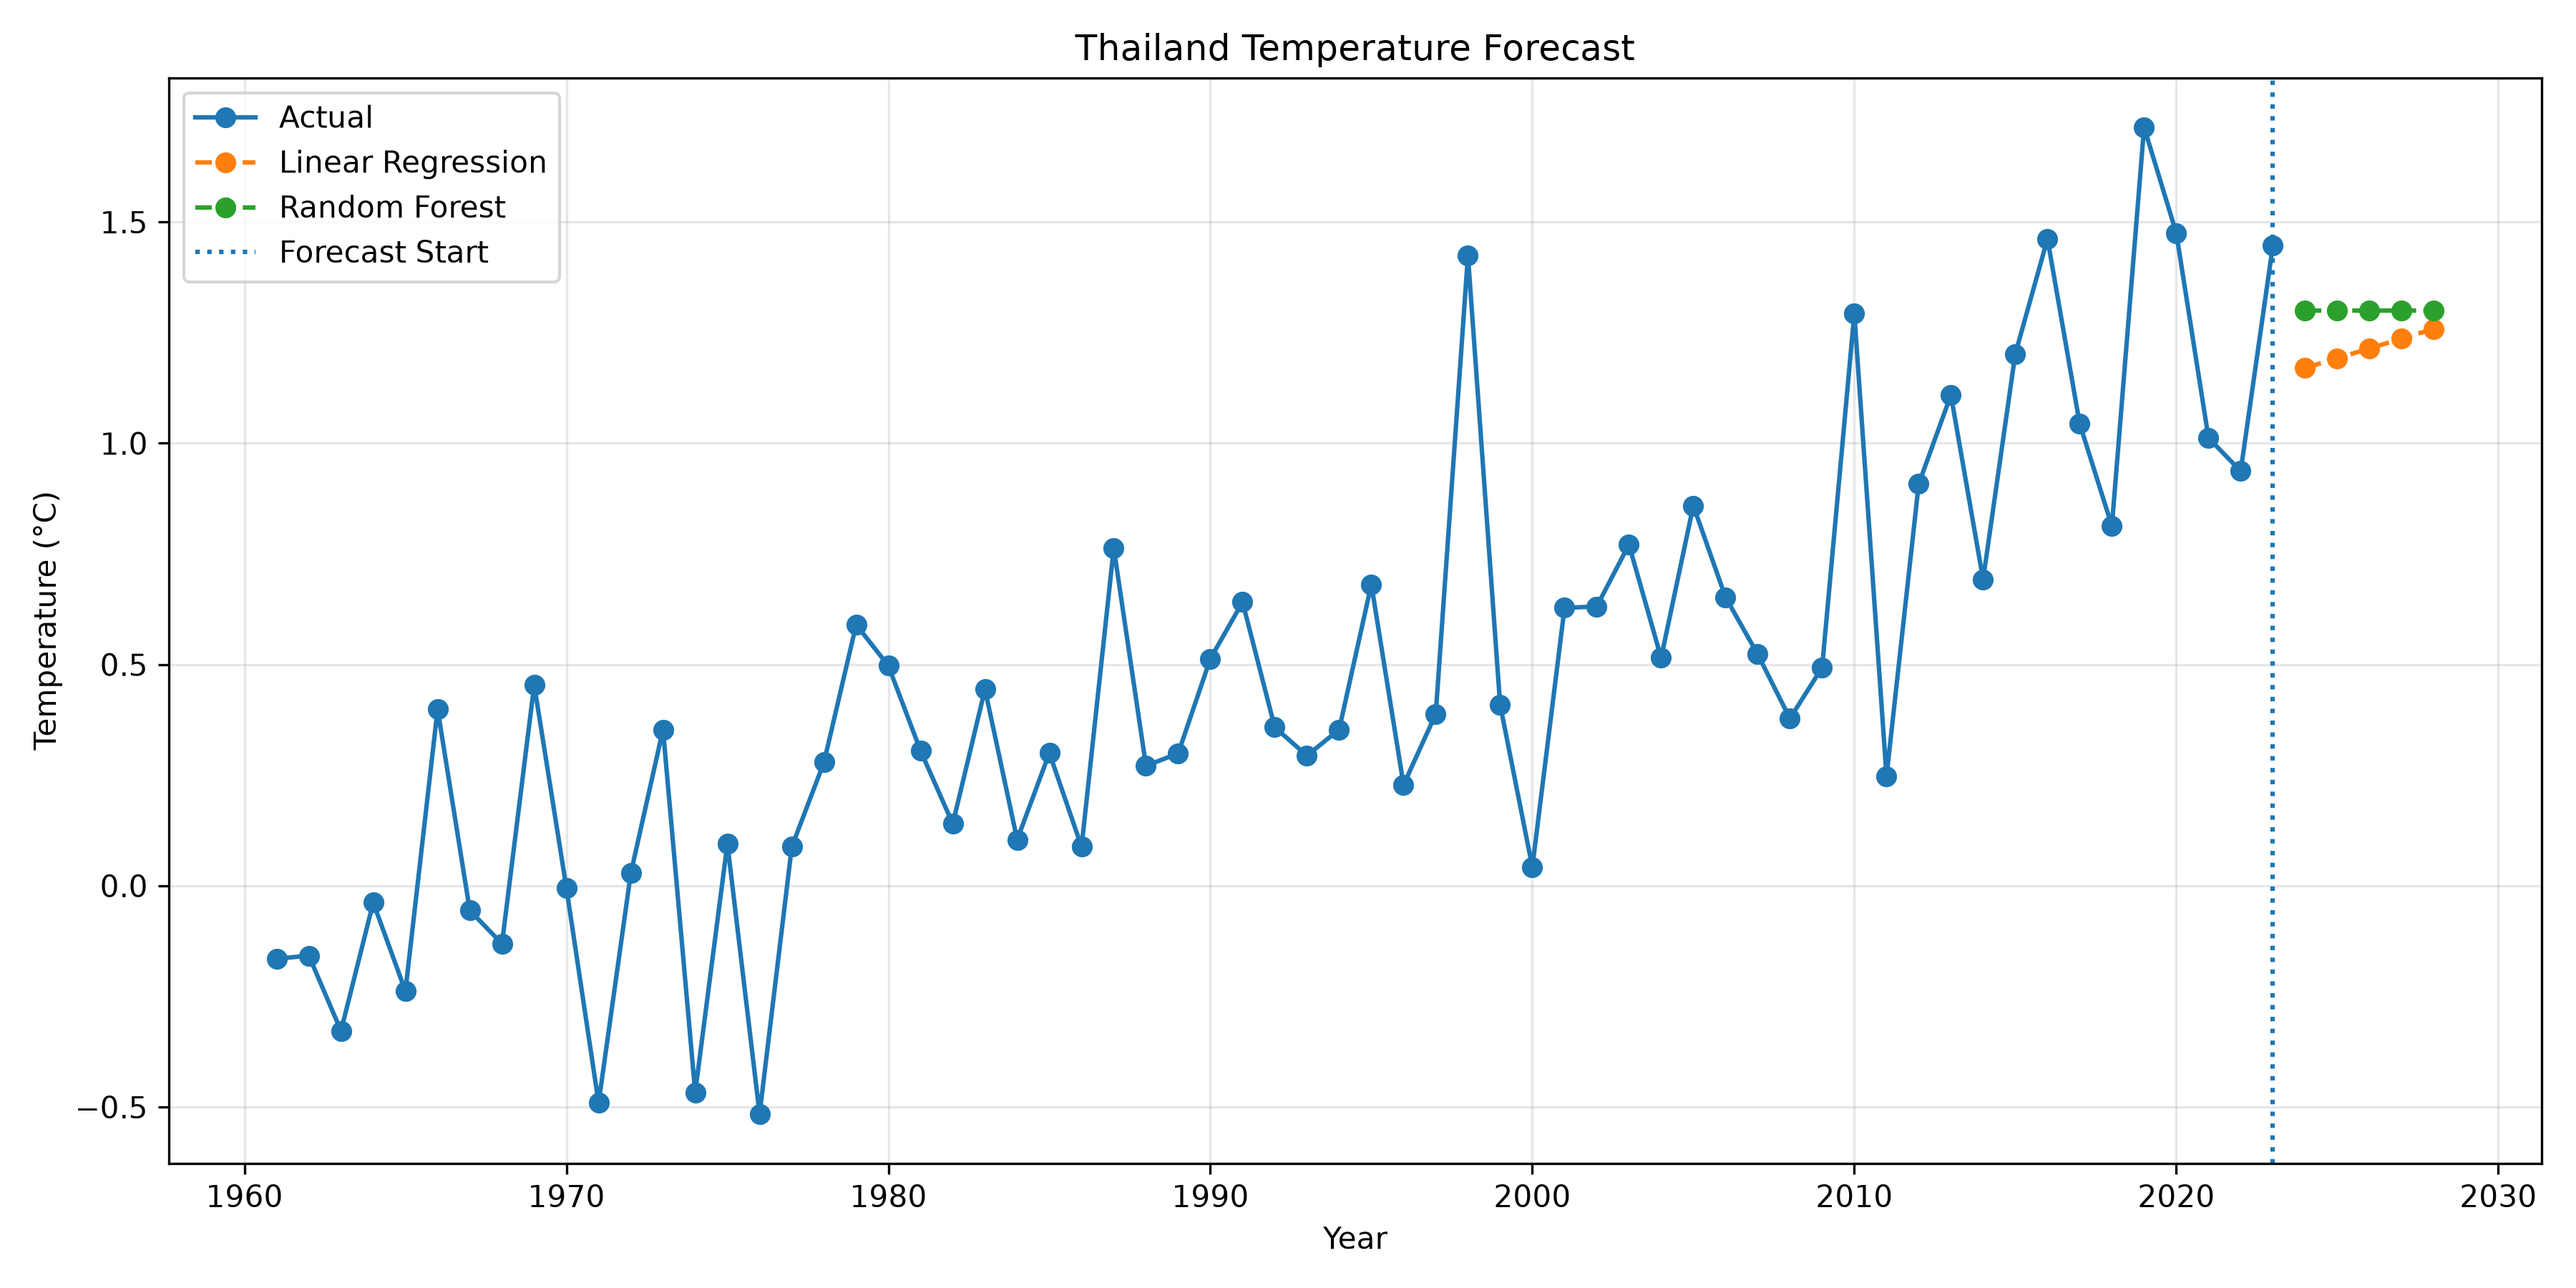
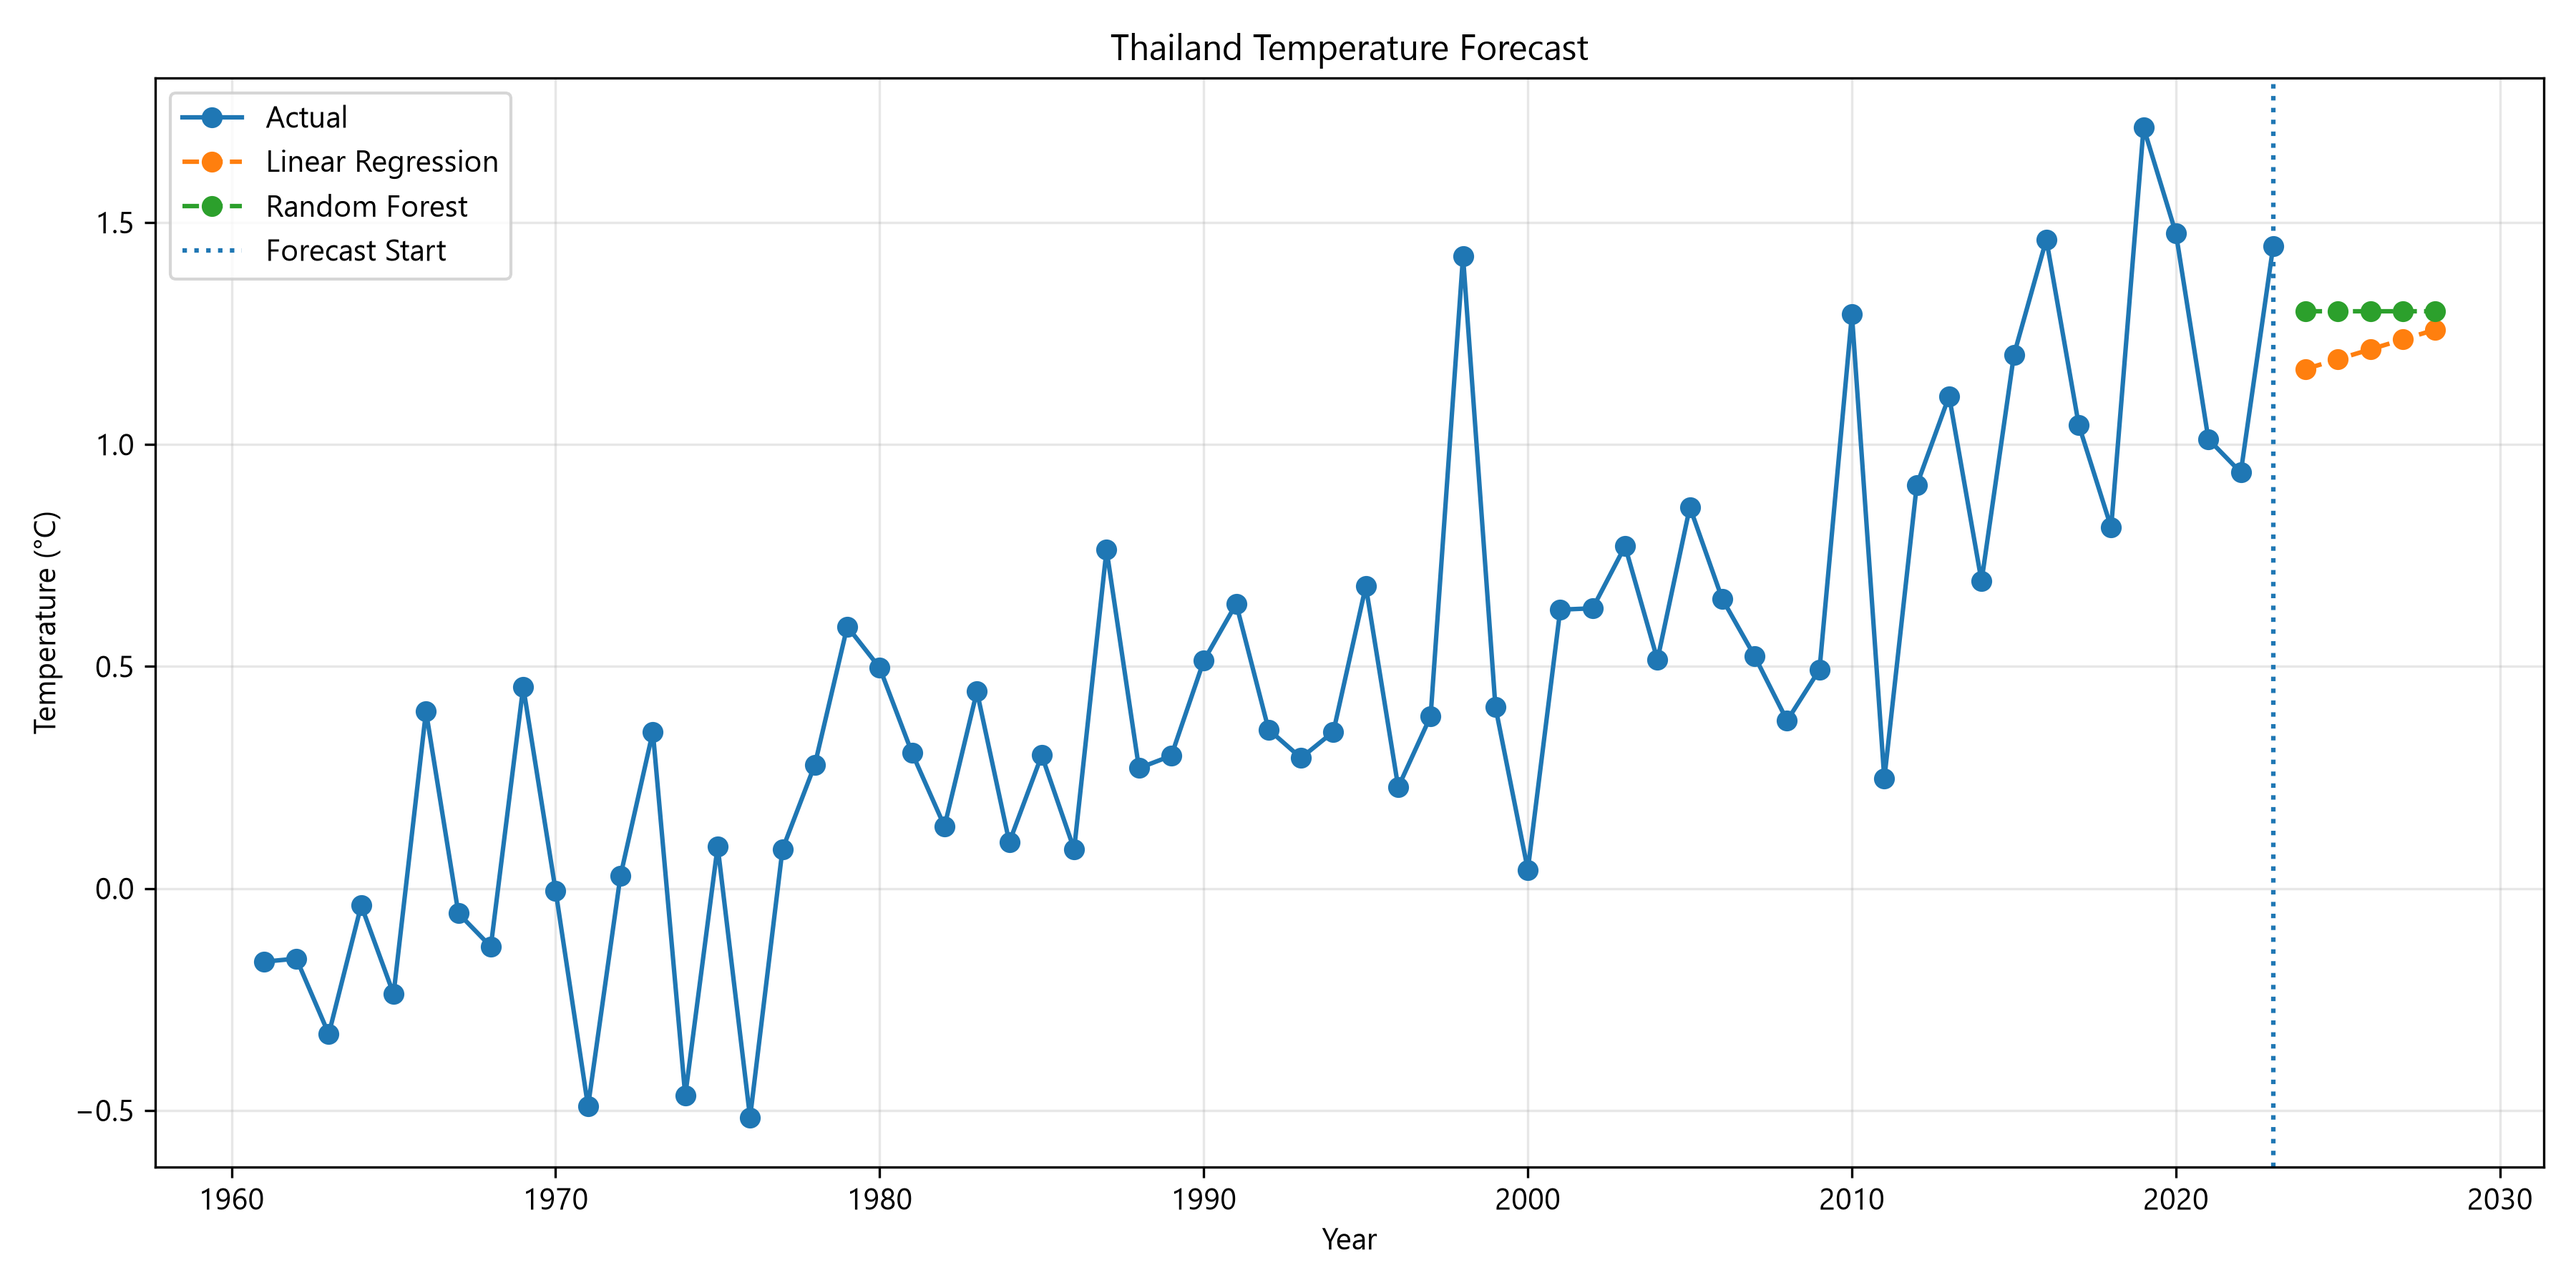
add_..

diff --git a/README.md b/README.md
@@ -1,0 +1,220 @@
+# Thailand Temperature Change Forecasting
+
+> A student Data Mining / Machine Learning project for preparing Thailand temperature-change data and generating a five-year forecast.
+
+[![Python](https://img.shields.io/badge/Python-3.x-3776AB?logo=python&logoColor=white)](https://www.python.org/)
+[![Pandas](https://img.shields.io/badge/Pandas-data%20processing-150458?logo=pandas&logoColor=white)](https://pandas.pydata.org/)
+[![scikit--learn](https://img.shields.io/badge/scikit--learn-modeling-F7931E?logo=scikit-learn&logoColor=white)](https://scikit-learn.org/)
+
+## Table of Contents
+
+- [Project Overview](#project-overview)
+- [Objectives](#objectives)
+- [Repository Structure](#repository-structure)
+- [Data](#data)
+- [Workflow](#workflow)
+- [Models](#models)
+- [Available Outputs](#available-outputs)
+- [Visualizations](#visualizations)
+- [How to Run](#how-to-run)
+- [Reproducibility Notes](#reproducibility-notes)
+- [Academic Notes](#academic-notes)
+
+## Project Overview
+
+This repository contains a workflow for working with annual **temperature change in Thailand**:
+
+1. Load a FAOSTAT temperature-change dataset.
+2. Filter the records for Thailand, annual meteorological data, and the `Temperature change` element.
+3. Clean numeric fields, remove incomplete records, remove duplicates, check missing years, and interpolate missing years when needed.
+4. Train forecasting models using year as the input feature.
+5. Compare the available model outputs and forecast the next five years.
+
+The main workflow is implemented in `clean.py` and `train_data.ipynb`.
+
+## Objectives
+
+- Prepare a reproducible dataset from the available FAOSTAT source files.
+- Explore a time-based temperature-change series for Thailand.
+- Compare Linear Regression and Random Forest regression workflows.
+- Produce tabular forecast output and a visualization for further discussion.
+
+## Repository Structure
+
+```text
+.
+├── clean.py
+├── clean_dataset.ipynb
+├── train_data.ipynb
+├── dataset/
+│   ├── Environment_Temperature_change_E_All_Data_NOFLAG.csv
+│   ├── FAOSTAT_data_1-10-2022.csv
+│   ├── FAOSTAT_data_11-24-2020.csv
+│   └── FAOSTAT_data_en_11-1-2024.csv
+├── Thailand_Temperature_Clean.csv
+├── Thailand_Model_Comparison.csv
+├── Thailand_Temperature_Forecast_2024_2028.csv
+├── Thailand_Temperature_Forecast.png
+├── Thailand_AI_Training_Results.png
+└── None_use/
+    ├── dataset/
+    ├── pj1/
+    └── pj2/
+```
+
+`None_use/` contains separate RFID and book-category classification experiments, including their own datasets, notebooks, scripts, and images. Those files are retained in the repository but are not part of the main Thailand temperature forecasting workflow documented above.
+
+## Data
+
+### Source files
+
+The main cleaning script reads:
+
+```text
+dataset/FAOSTAT_data_en_11-1-2024.csv
+```
+
+Other source CSV files are also present in `dataset/`, but the current `clean.py` input path points to the file above.
+
+### Cleaned dataset
+
+`Thailand_Temperature_Clean.csv` contains the columns:
+
+| Column | Description based on the file and cleaning code |
+|---|---|
+| `Year` | Observation year |
+| `Value` | Temperature change value in the source unit, represented as degrees Celsius in the project output |
+
+The checked file contains **63 rows**, covering **1961-2023**. The cleaning script creates this two-column format after filtering and validation.
+
+## Workflow
+
+### 1. Cleaning
+
+`clean.py` performs the following operations:
+
+- Reads the FAOSTAT file with `latin1` encoding.
+- Cleans column names by removing a possible BOM and surrounding whitespace.
+- Selects `Thailand` records.
+- Selects the `Temperature change` element.
+- Selects `Meteorological year` records.
+- Keeps `Area`, `Year`, `Unit`, `Value`, and `Flag` before finalizing the cleaned dataset.
+- Converts `Year` and `Value` to numeric values.
+- Removes missing values and duplicate rows.
+- Checks duplicate and missing years.
+- Linearly interpolates missing years when they exist.
+- Saves `Thailand_Temperature_Clean.csv`.
+
+### 2. Model training and forecasting
+
+`train_data.ipynb`:
+
+- Detects the year and temperature-value columns.
+- Splits the final time series into training and test sections using `TEST_RATIO = 0.20`, with at least three test rows.
+- Uses `Year` as the model feature and temperature change as the target.
+- Trains Linear Regression and Random Forest regression models.
+- Forecasts `FORECAST_YEARS = 5` future years.
+- Saves a forecast CSV and a plot.
+
+## Models
+
+The main notebook contains these regression models:
+
+| Model | Role in the workflow |
+|---|---|
+| Linear Regression | Fits a linear relationship between year and temperature change |
+| Random Forest Regressor | Provides a tree-based regression comparison |
+
+The notebook code evaluates regression performance using **MAE** and **RMSE** on its train/test split. The committed `Thailand_Model_Comparison.csv` currently has a different schema: `Model,Accuracy_%`. Because the source and calculation of that `Accuracy_%` column are not documented in the current root workflow, those values are reported as-is and are not reinterpreted as MAE, RMSE, or a classification score.
+
+## Available Outputs
+
+The following generated files are present in the repository:
+
+| File | Contents |
+|---|---|
+| `Thailand_Temperature_Clean.csv` | Cleaned annual Thailand temperature-change series |
+| `Thailand_Model_Comparison.csv` | Two-row model comparison file with a recorded `Accuracy_%` column |
+| `Thailand_Temperature_Forecast_2024_2028.csv` | Forecast values for 2024-2028, including both model columns and the selected forecast model |
+| `Thailand_Temperature_Forecast.png` | Forecast visualization |
+| `Thailand_AI_Training_Results.png` | Existing image asset; its generating workflow is not documented in the root scripts |
+
+### Recorded comparison file
+
+The values below are copied from `Thailand_Model_Comparison.csv`; no new metrics have been calculated for this README.
+
+| Model | Recorded `Accuracy_%` |
+|---|---:|
+| Linear Regression | 72.24812298259296 |
+| Random Forest | 43.94041259500588 |
+
+### Recorded forecast output
+
+The forecast CSV records Linear Regression as the selected forecast model for 2024-2028. Its `Forecast_Temperature_Change_C` values are:
+
+| Year | Forecast model | Forecast temperature change (C) |
+|---:|---|---:|
+| 2024 | Linear Regression | 1.170 |
+| 2025 | Linear Regression | 1.192 |
+| 2026 | Linear Regression | 1.214 |
+| 2027 | Linear Regression | 1.236 |
+| 2028 | Linear Regression | 1.259 |
+
+These are repository output values, not a claim that the forecast is scientifically validated or suitable for operational decision-making.
+
+## Visualizations
+
+### Temperature forecast
+
+![Thailand temperature forecast](Thailand_Temperature_Forecast.png)
+
+### Existing training-results image
+
+![Thailand AI training results](Thailand_AI_Training_Results.png)
+
+## How to Run
+
+### Requirements
+
+The repository does not currently include a root-level `requirements.txt`. Install the packages imported by the main workflow in an active Python environment:
+
+```bash
+python -m pip install numpy pandas matplotlib scikit-learn
+```
+
+### Run the cleaning script
+
+Run from the repository root so the relative input path resolves correctly:
+
+```bash
+python clean.py
+```
+
+This regenerates `Thailand_Temperature_Clean.csv` from the configured FAOSTAT input.
+
+### Run the notebook
+
+Open `train_data.ipynb` in Jupyter Notebook or VS Code, then run the cells in order. The notebook expects `Thailand_Temperature_Clean.csv` in the repository root and writes forecast/comparison outputs to the same working directory.
+
+## Reproducibility Notes
+
+- Run commands from the repository root.
+- The current cleaned data ends at 2023, so the configured five-year forecast covers 2024-2028.
+- The forecast filename in the notebook is currently hard-coded as `Thailand_Temperature_Forecast_2024_2028.csv`.
+- The model-comparison CSV and the notebook code currently use different metric schemas. Regenerate and review the output before using the reported comparison as a final academic result.
+- No root-level `requirements.txt` or automated test suite is present in the inspected repository.
+
+## Academic Notes
+
+This documentation records only files and values found in the repository. It does not add unobserved accuracy, precision, recall, F1-score, statistical significance, or external validation results.
+
+For a final submission, consider adding the following only after they have been produced and verified:
+
+- package versions or a `requirements.txt` file;
+- the exact MAE and RMSE output from the current notebook run;
+- an explanation of the source-data version and units;
+- a discussion of limitations, including the use of year as the only model feature.
+
+---
+
+**Project status:** Reproducible working files and generated outputs are present; final metric reconciliation remains to be completed before treating the comparison table as a definitive evaluation.
